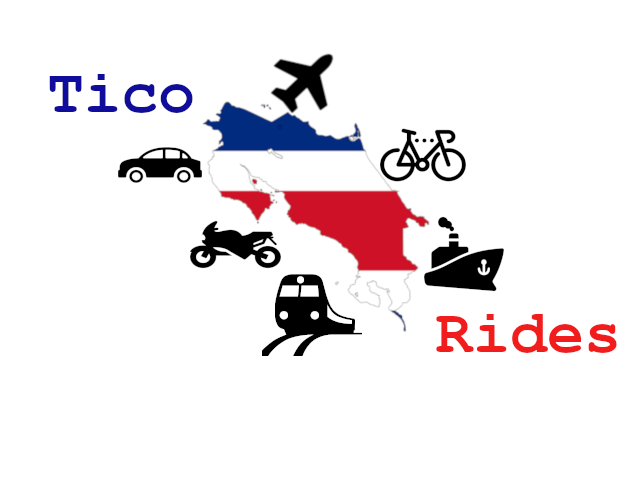
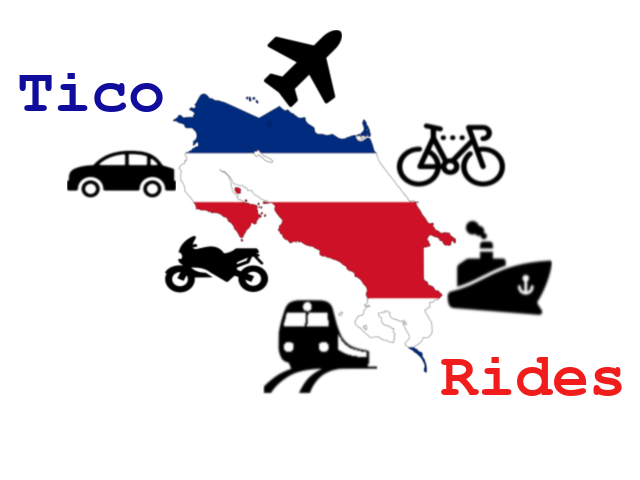
Se le agrego estilo a la imagen

Changed region(s): [[0.0312, 0.0625, 0.9688, 0.8438]]

diff --git a/index.html b/index.html
@@ -10,9 +10,11 @@
 <body>
     <div class="encabezado">
         <a href="#">Iniciar Sesión</a>
-        <img src="img/TicoRides.png" alt="Logo Tico Rides">
-        <div class="titulo_principal">
-            <h1>Bienvenido(@) a TicoRides.com</h1>
+        <div class="imagen_principal">
+            <img src="img/TicoRides.png" alt="Logo Tico Rides">
+            <div class="titulo_principal">
+                <h1>Bienvenido(@) a TicoRides.com</h1>
+            </div>
         </div>
     </div>
     <div class="panel_busqueda">

diff --git a/css/estilos.css b/css/estilos.css
@@ -1,0 +1,26 @@
+*{
+    background: #1ED5E9;
+}
+.encabezado a{
+    text-decoration: none;
+    display: block;
+    position: absolute;
+    left: 85%;
+    margin: 2%;
+    padding: 10px 20px;
+    text-align: center;
+    background: #1A1B84;
+    color: #fff;
+}
+
+a:hover{
+    background: #3A58BD;
+}
+
+.imagen_principal img{
+    display: block;
+    margin: auto;
+    height: 300px;
+    width: 400px;
+}
+
